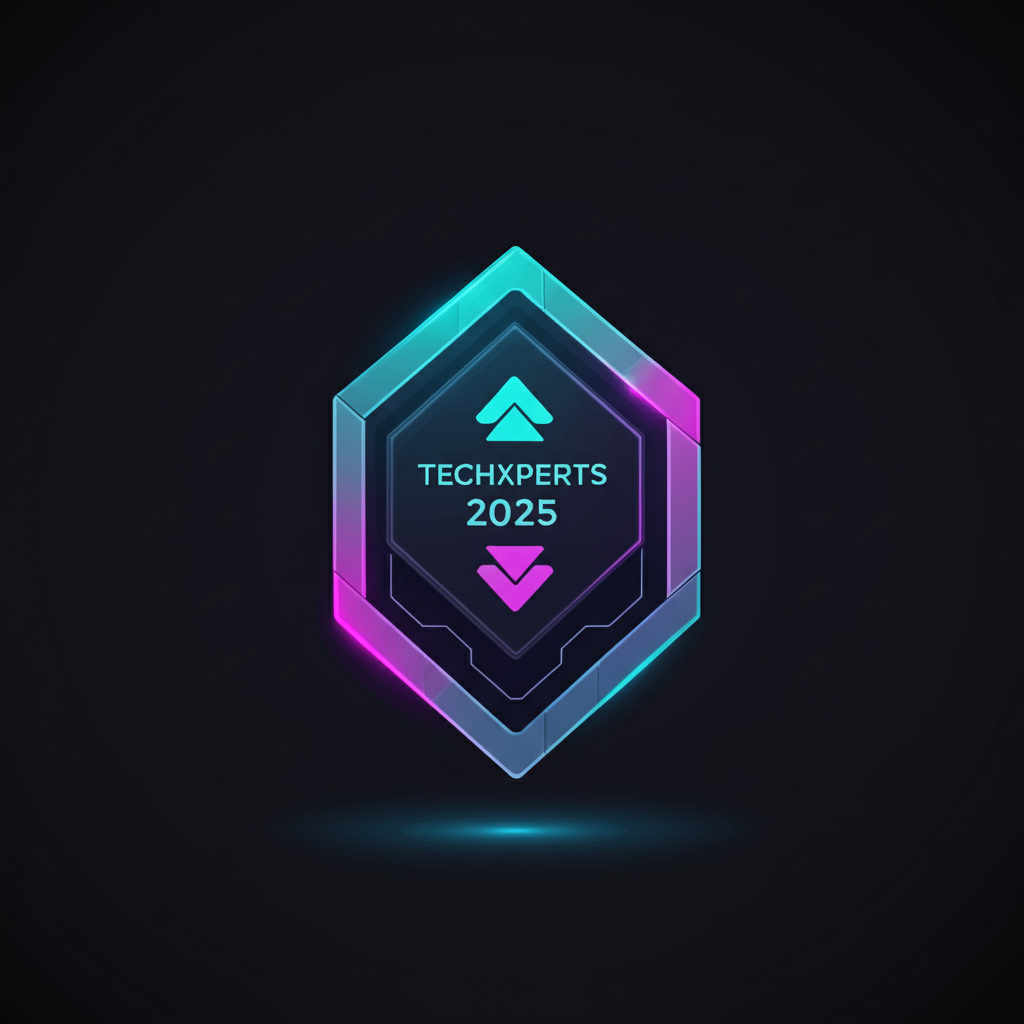
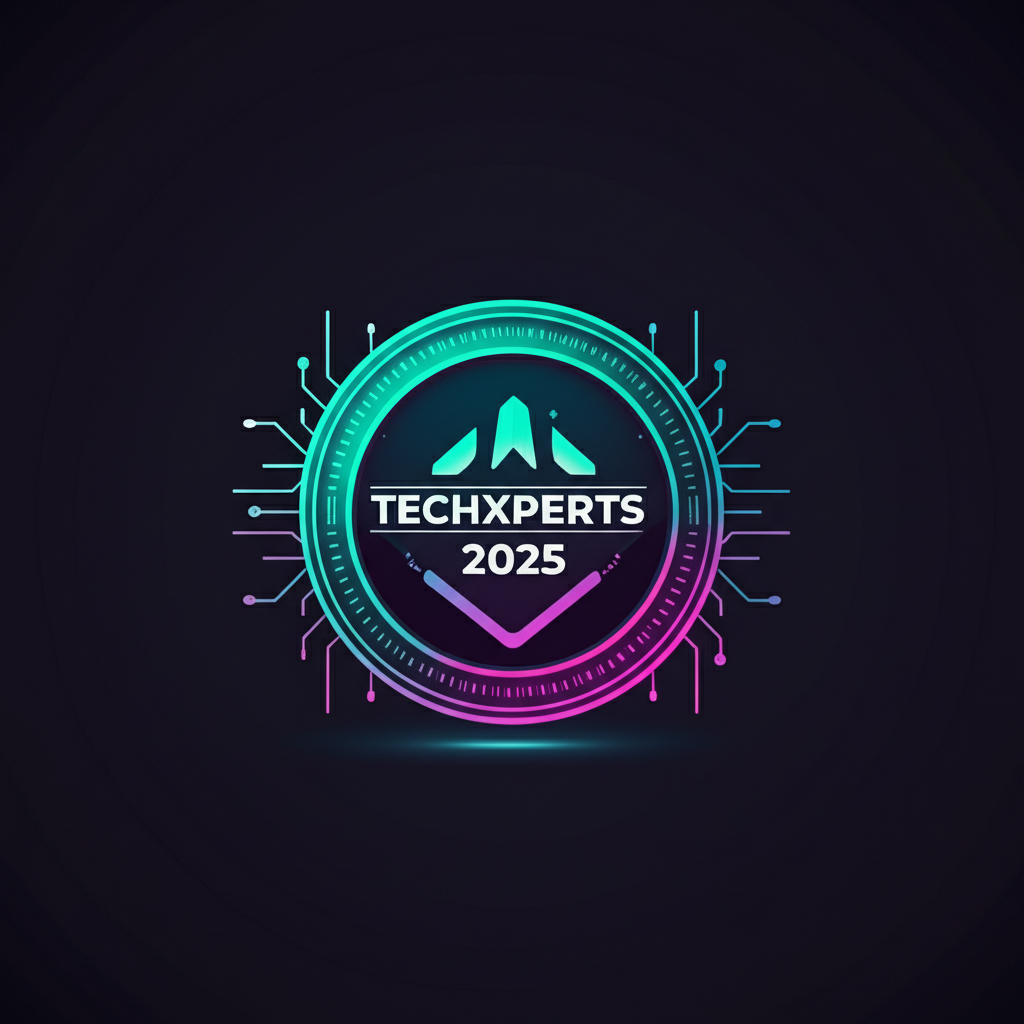
scbdwf

Changed region(s): [[0.2188, 0.2188, 0.75, 0.8438]]

diff --git a/app.py b/app.py
@@ -1,10 +1,9 @@
-from flask import Flask, request, jsonify
+from flask import Flask, request, jsonify, send_file
 import google.generativeai as genai
 import os
 from dotenv import load_dotenv
 from PIL import Image
 from io import BytesIO
-import base64
 
 # Load environment variables
 load_dotenv()
@@ -34,36 +33,37 @@ def generate_image():
             "A national-level hackathon bringing together innovators."
         )
 
-        # Prompt
+        # Prompt template
         text_input = (
             f"A futuristic, collectible NFT memento token for the event: '{event_name}'.\n\n"
             f"**Core Concept:** '{event_description}'.\n\n"
-            "**Object & Form:** 2D illustrated token, futuristic emblem.\n"
-            "**Style:** Futuristic, Web3, cyberpunk, neon gradients.\n"
+            "**Object & Form:** A distinct 2D illustrated token, symbolic coin, crystal, holographic card, or futuristic emblem.\n"
+            "**Style:** Futuristic, Web3, cyberpunk, neon gradients, vector-style, flat geometric.\n"
+            "**Background:** Minimalist dark abstract background.\n"
             f"**Text:** Include '{event_name}' subtly.\n"
             "Avoid: 3D renders, photorealism, blurry, cartoonish, watermark."
         )
 
+        # Generate response
         response = model.generate_content(
             contents=[text_input],
             generation_config=generation_config
         )
 
+        # Extract image
+        image_found = False
         for part in response.candidates[0].content.parts:
             if hasattr(part, "inline_data") and part.inline_data:
                 image_data = part.inline_data.data
                 image = Image.open(BytesIO(image_data))
 
-                buffered = BytesIO()
-                image.save(buffered, format="PNG")
-                img_base64 = base64.b64encode(buffered.getvalue()).decode("utf-8")
+                # Save
+                output_filename = "output.png"
+                image.save(output_filename)
 
-                return jsonify({
-                    "event_name": event_name,
-                    "image_base64": img_base64
-                })
+                return send_file(output_filename, mimetype="image/png")
 
-        return jsonify({"error": "No image data found"}), 500
+        return jsonify({"error": "No image data found in response."}), 500
 
     except Exception as e:
         return jsonify({"error": str(e)}), 500
@@ -72,3 +72,7 @@ def generate_image():
 @app.route("/", methods=["GET"])
 def home():
     return jsonify({"message": "✅ Flask Gemini Image Generator is running"})
+
+
+if __name__ == "__main__":
+    app.run(debug=True, port=5000)
